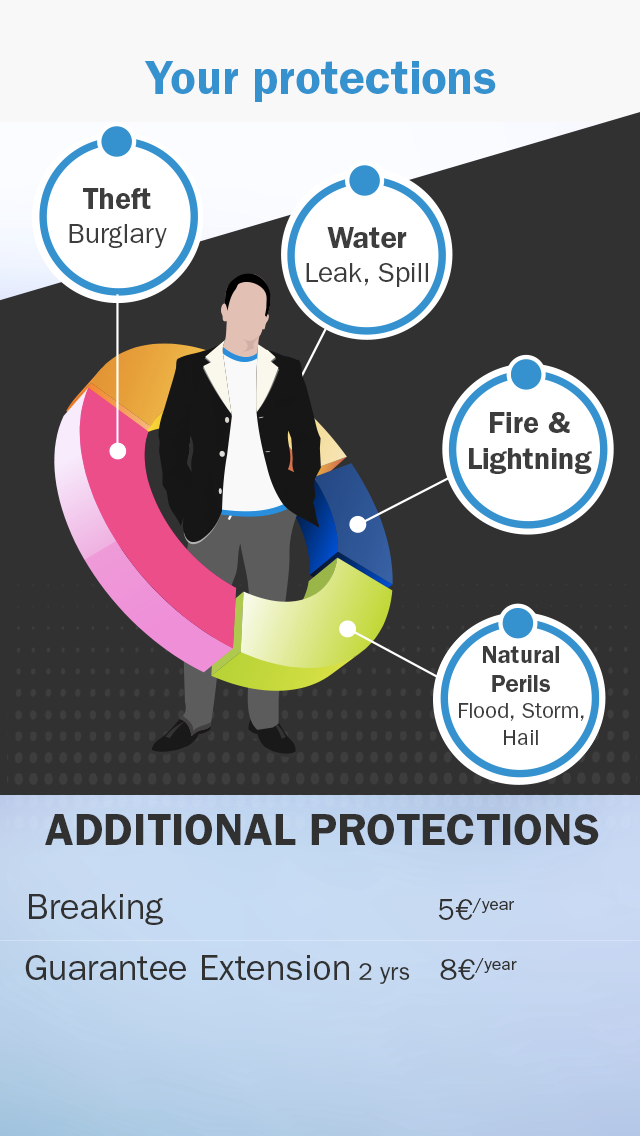
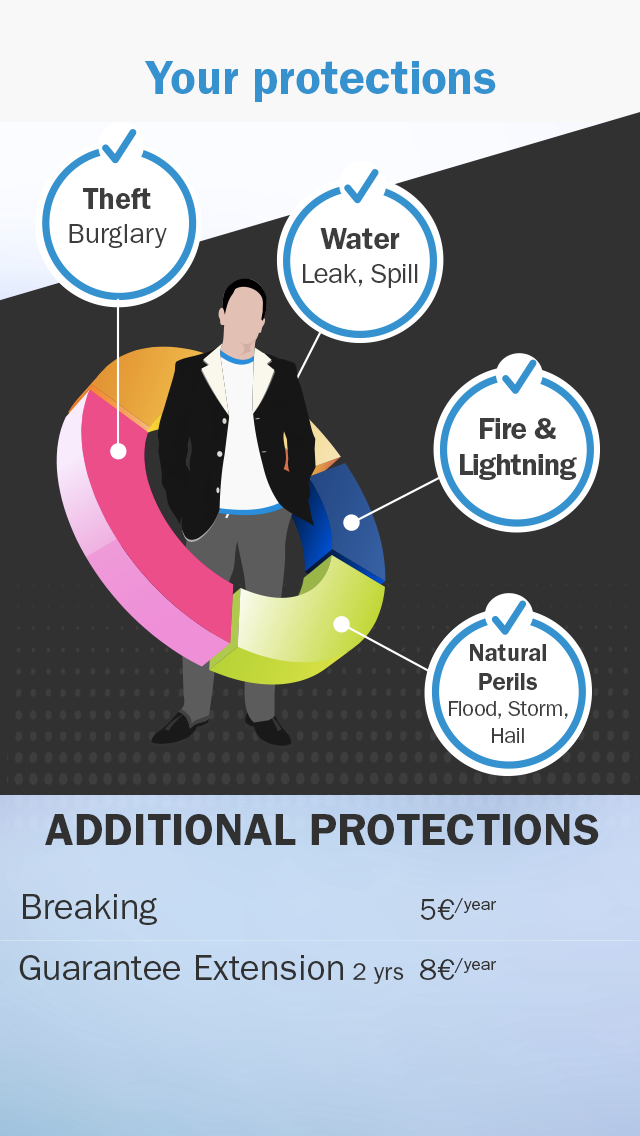
• Update font sizes • Update icone size to remove warning

diff --git a/Axa Glass/ImageDetailViewController.m b/Axa Glass/ImageDetailViewController.m
@@ -89,16 +89,13 @@
 
 
 - (void) defineFont {
-	self.tag.font = [UIFont fontWithName:FONT_BOOK size:14];
-	self.category.font = [UIFont fontWithName:FONT_BOOK size:14];
-	self.price.font = [UIFont fontWithName:FONT_BOOK size:14];
-	
-	self.yourProtectionTitle.font = [UIFont fontWithName:FONT_DEMI size:24];
+	self.tag.font = [UIFont fontWithName:FONT_BOOK size:15];
+	self.category.font = [UIFont fontWithName:FONT_BOOK size:15];
+	self.price.font = [UIFont fontWithName:FONT_BOOK size:15];
 }
 
 - (void)didReceiveMemoryWarning {
 	[super didReceiveMemoryWarning];
-	// Dispose of any resources that can be recreated.
 }
 
 
@@ -119,25 +116,9 @@
 #pragma mark -
 #pragma mark Keyboard Controls Delegate
 
-//- (void)keyboardControls:(BSKeyboardControls *)keyboardControls selectedField:(UIView *)field inDirection:(BSKeyboardControlsDirection)direction {
-//}
-
 - (void)keyboardControlsDonePressed:(BSKeyboardControls *)keyboardControls {
 	[self.view endEditing:YES];
 }
-
-/*
- #pragma mark - Navigation
- 
- // In a storyboard-based application, you will often want to do a little preparation before navigation
- - (void)prepareForSegue:(UIStoryboardSegue *)segue sender:(id)sender
- {
- // Get the new view controller using [segue destinationViewController].
- // Pass the selected object to the new view controller.
- }
- */
-
-
 
 #pragma mark - Tableview
 
@@ -155,8 +136,7 @@
 }
 
 
-- (UITableViewCell *)tableView:(UITableView *)tableView cellForRowAtIndexPath:(NSIndexPath *)indexPath
-{
+- (UITableViewCell *)tableView:(UITableView *)tableView cellForRowAtIndexPath:(NSIndexPath *)indexPath {
 	LoggerData(1, @"row=%ld section = %ld", (long)indexPath.row, (long)indexPath.section);
 
 	if (indexPath.section==kOptionSectionIndex) {
@@ -232,24 +212,6 @@
 
 	return nil;
 }
-
-//
-//- (NSIndexPath *)tableView:(UITableView *)tableView willSelectRowAtIndexPath:(NSIndexPath *)indexPath {
-//	
-////	UITableViewCell * cell = [self.tableView cellForRowAtIndexPath:indexPath];
-////	if ([cell.reuseIdentifier isEqualToString: @"PayFooter" ]) {
-////	//if ( indexPath.section == (kProtectionSectionIndex) && indexPath.row == (kNumberProtection-1)) {
-////		return indexPath;
-////	}
-//	return nil;
-//}
-//
-
-
-//- (void)tableView:(UITableView *)tableView didSelectRowAtIndexPath:(NSIndexPath *)indexPath {
-//	
-//	[self loader];
-//}
 
 // Override to support conditional editing of the table view.
 - (BOOL)tableView:(UITableView *)tableView canEditRowAtIndexPath:(NSIndexPath *)indexPath {
@@ -338,23 +300,7 @@
 	}];
 	
 	[alerte show];
-	 
-	 
-//	 showWithTitle:@"Drink Selection"
-//					   message:@"Choose a refreshing beverage"
-//			 cancelButtonTitle:@"Cancel"
-//			 otherButtonTitles:@[@"Beer", @"Wine"]
-//					  tapBlock:^(UIAlertView *alertView, NSInteger buttonIndex) {
-//						  if (buttonIndex == [alertView cancelButtonIndex]) {
-//							  NSLog(@"Cancelled");
-//						  } else if ([[alertView buttonTitleAtIndex:buttonIndex] isEqualToString:@"Beer"]) {
-//							  NSLog(@"Have a cold beer");
-//						  } else if ([[alertView buttonTitleAtIndex:buttonIndex] isEqualToString:@"Wine"]) {
-//							  NSLog(@"Have a glass of chardonnay");
-//						  }
-//					  }];
-//	
-	
+
 }
 
 -(void) loader {

diff --git a/Axa Glass/ResultImageCell.m b/Axa Glass/ResultImageCell.m
@@ -23,8 +23,8 @@
 {
 	[self setSelectionStyle:UITableViewCellSelectionStyleNone];
 
-	UIFont *myFontText = [ UIFont fontWithName:FONT_BOOK size: 12.0 ];
-	UIFont *myFontPrice = [ UIFont fontWithName:FONT_DEMI size: 13.0 ];
+	UIFont *myFontText = [ UIFont fontWithName:FONT_BOOK size: 15.0 ];
+	UIFont *myFontPrice = [ UIFont fontWithName:FONT_DEMI size: 15.0 ];
 	self.keyword.font = myFontText;
 	self.price.font = myFontPrice;
 	

diff --git a/Axa Glass/ImageDetailViewController.h b/Axa Glass/ImageDetailViewController.h
@@ -10,7 +10,6 @@
 #import "BSKeyboardControls.h"
 
 @interface ImageDetailViewController : UIViewController <BSKeyboardControlsDelegate, UITextFieldDelegate, UITextViewDelegate, UITableViewDataSource, UITableViewDelegate>
-@property (weak, nonatomic) IBOutlet UILabel *yourProtectionTitle;
 @property (nonatomic, strong) ImageModel * imageModel;
 @property (nonatomic, strong) SimilarImage * similarImage;
 

diff --git a/Axa Glass/OptionCell.m b/Axa Glass/OptionCell.m
@@ -20,7 +20,7 @@
 }
 
 - (void)awakeFromNib {
-	UIFont *myFont = [ UIFont fontWithName:FONT_DEMI size: 15.0 ];
+	UIFont *myFont = [ UIFont fontWithName:FONT_DEMI size: 16.0 ];
 	self.name.font = myFont;
 	self.name.textColor = [UIColor colorWithRed:0.925490F green:0.925490F blue:0.925490F alpha:1.0F] ;
 }

diff --git a/Axa Glass/ProtectionCell.m b/Axa Glass/ProtectionCell.m
@@ -21,7 +21,7 @@
 }
 
 - (void)awakeFromNib {
-	UIFont *myFont = [ UIFont fontWithName:FONT_DEMI size: 15.0 ];
+	UIFont *myFont = [ UIFont fontWithName:FONT_DEMI size: 16.0 ];
 	self.desc.font = myFont;
 	self.desc.textColor = [UIColor colorWithRed:0.925490F green:0.925490F blue:0.925490F alpha:1.0F] ;
 }
